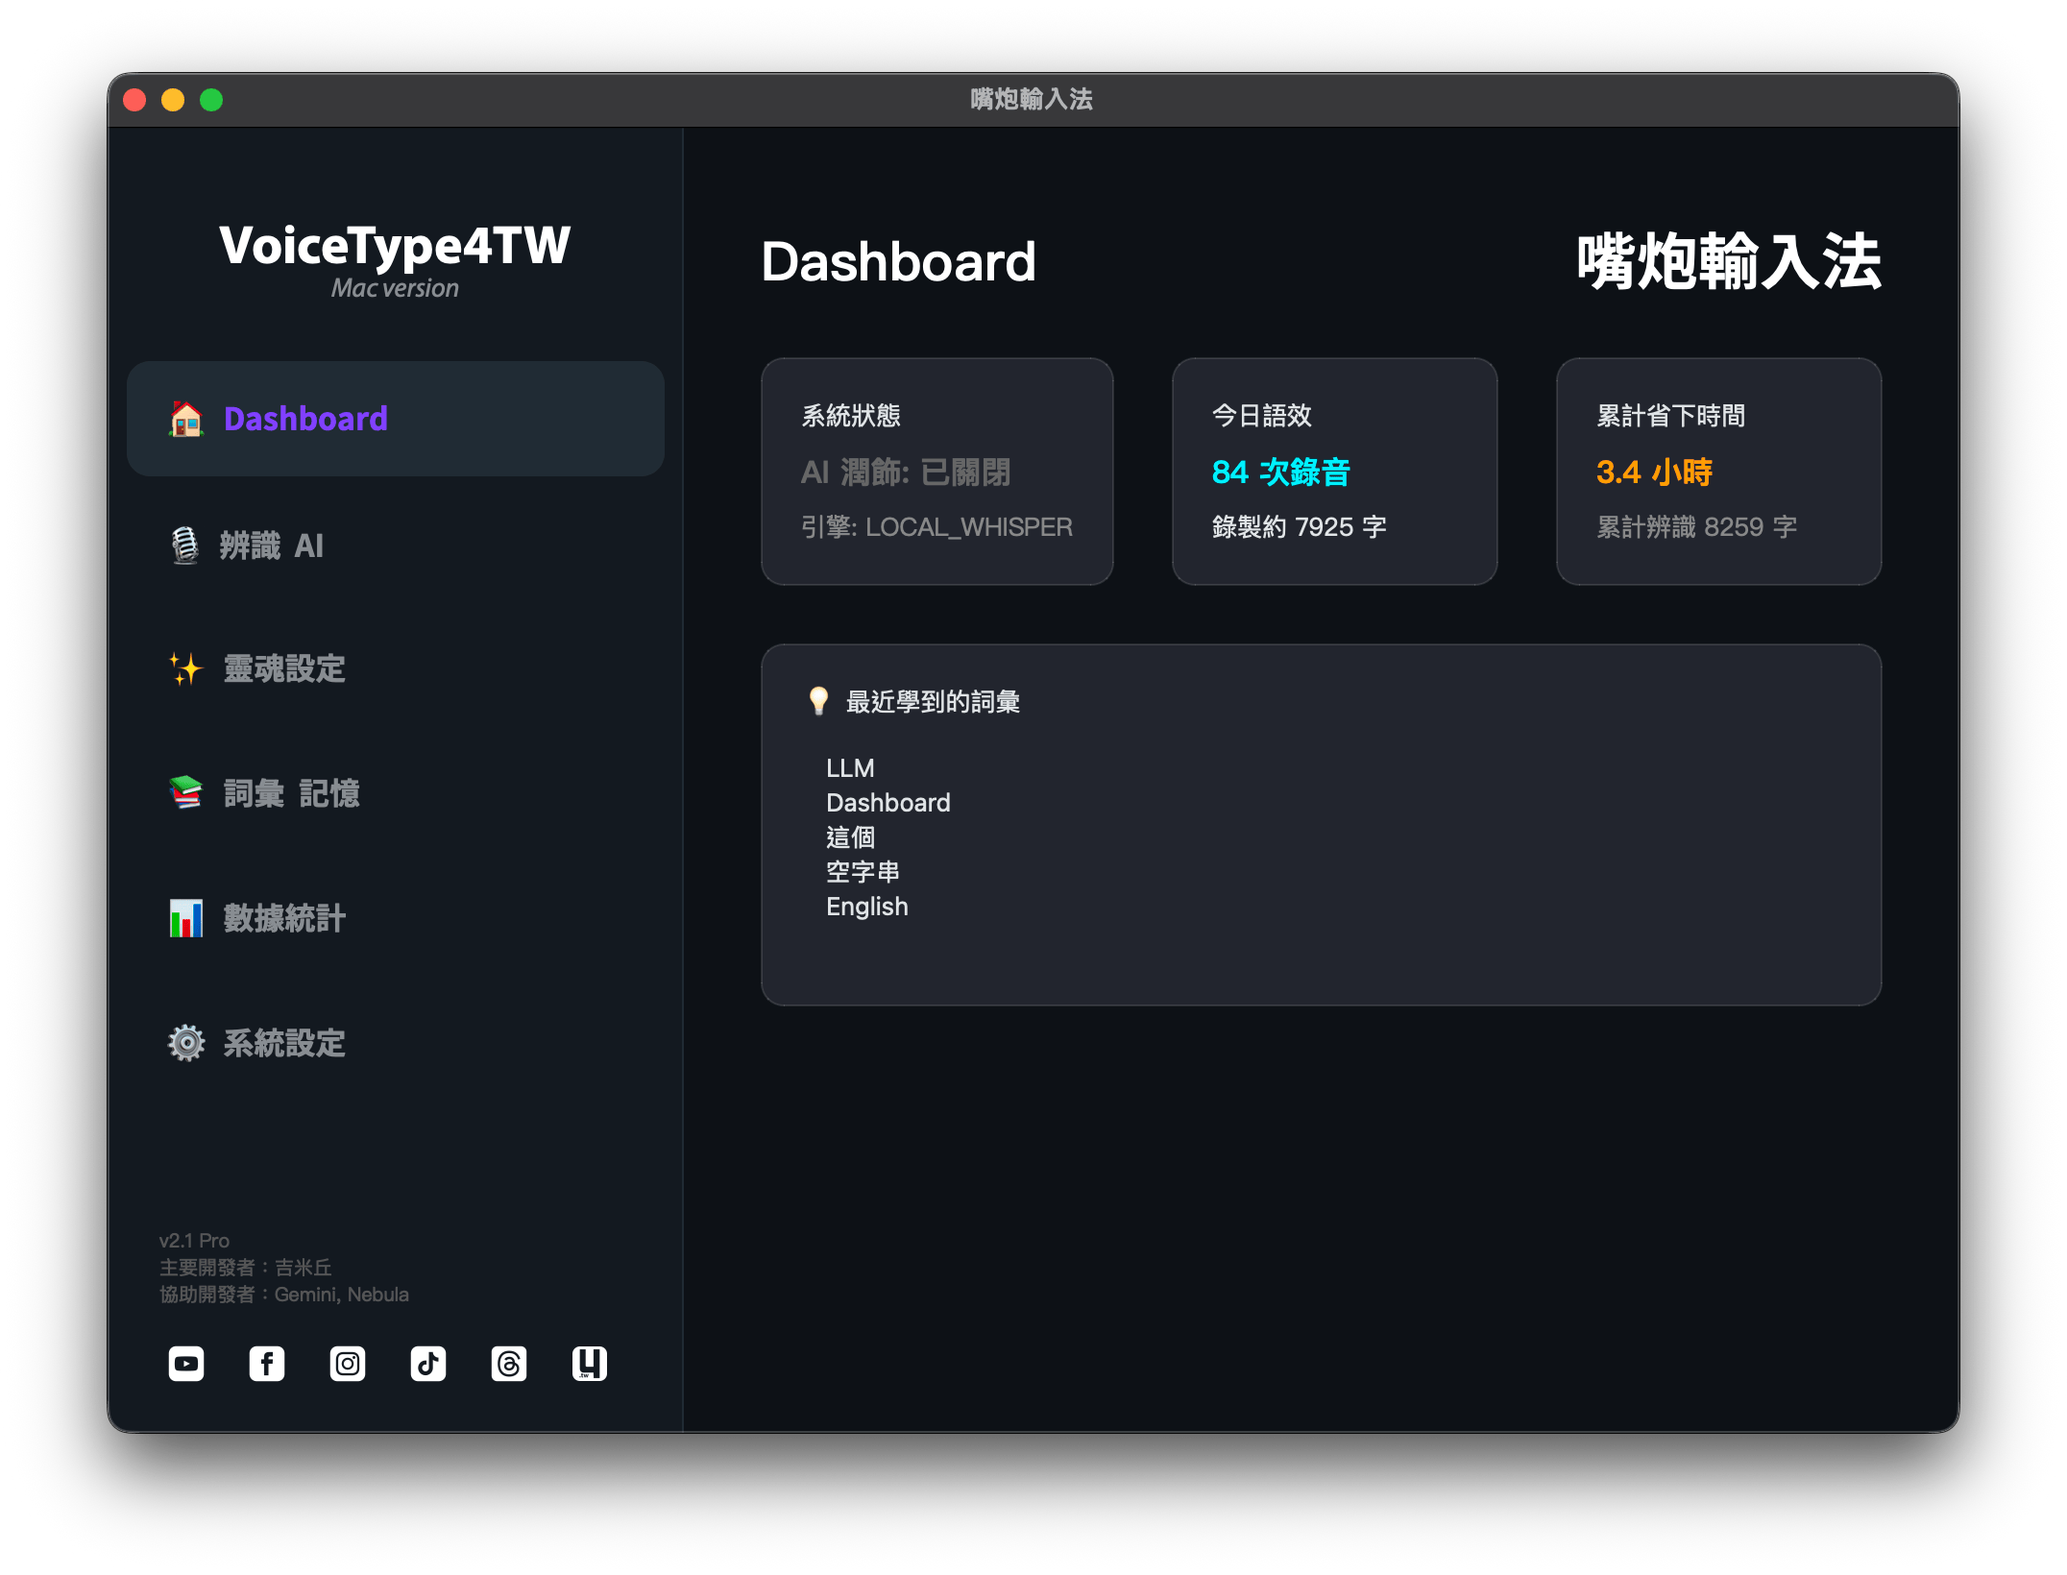
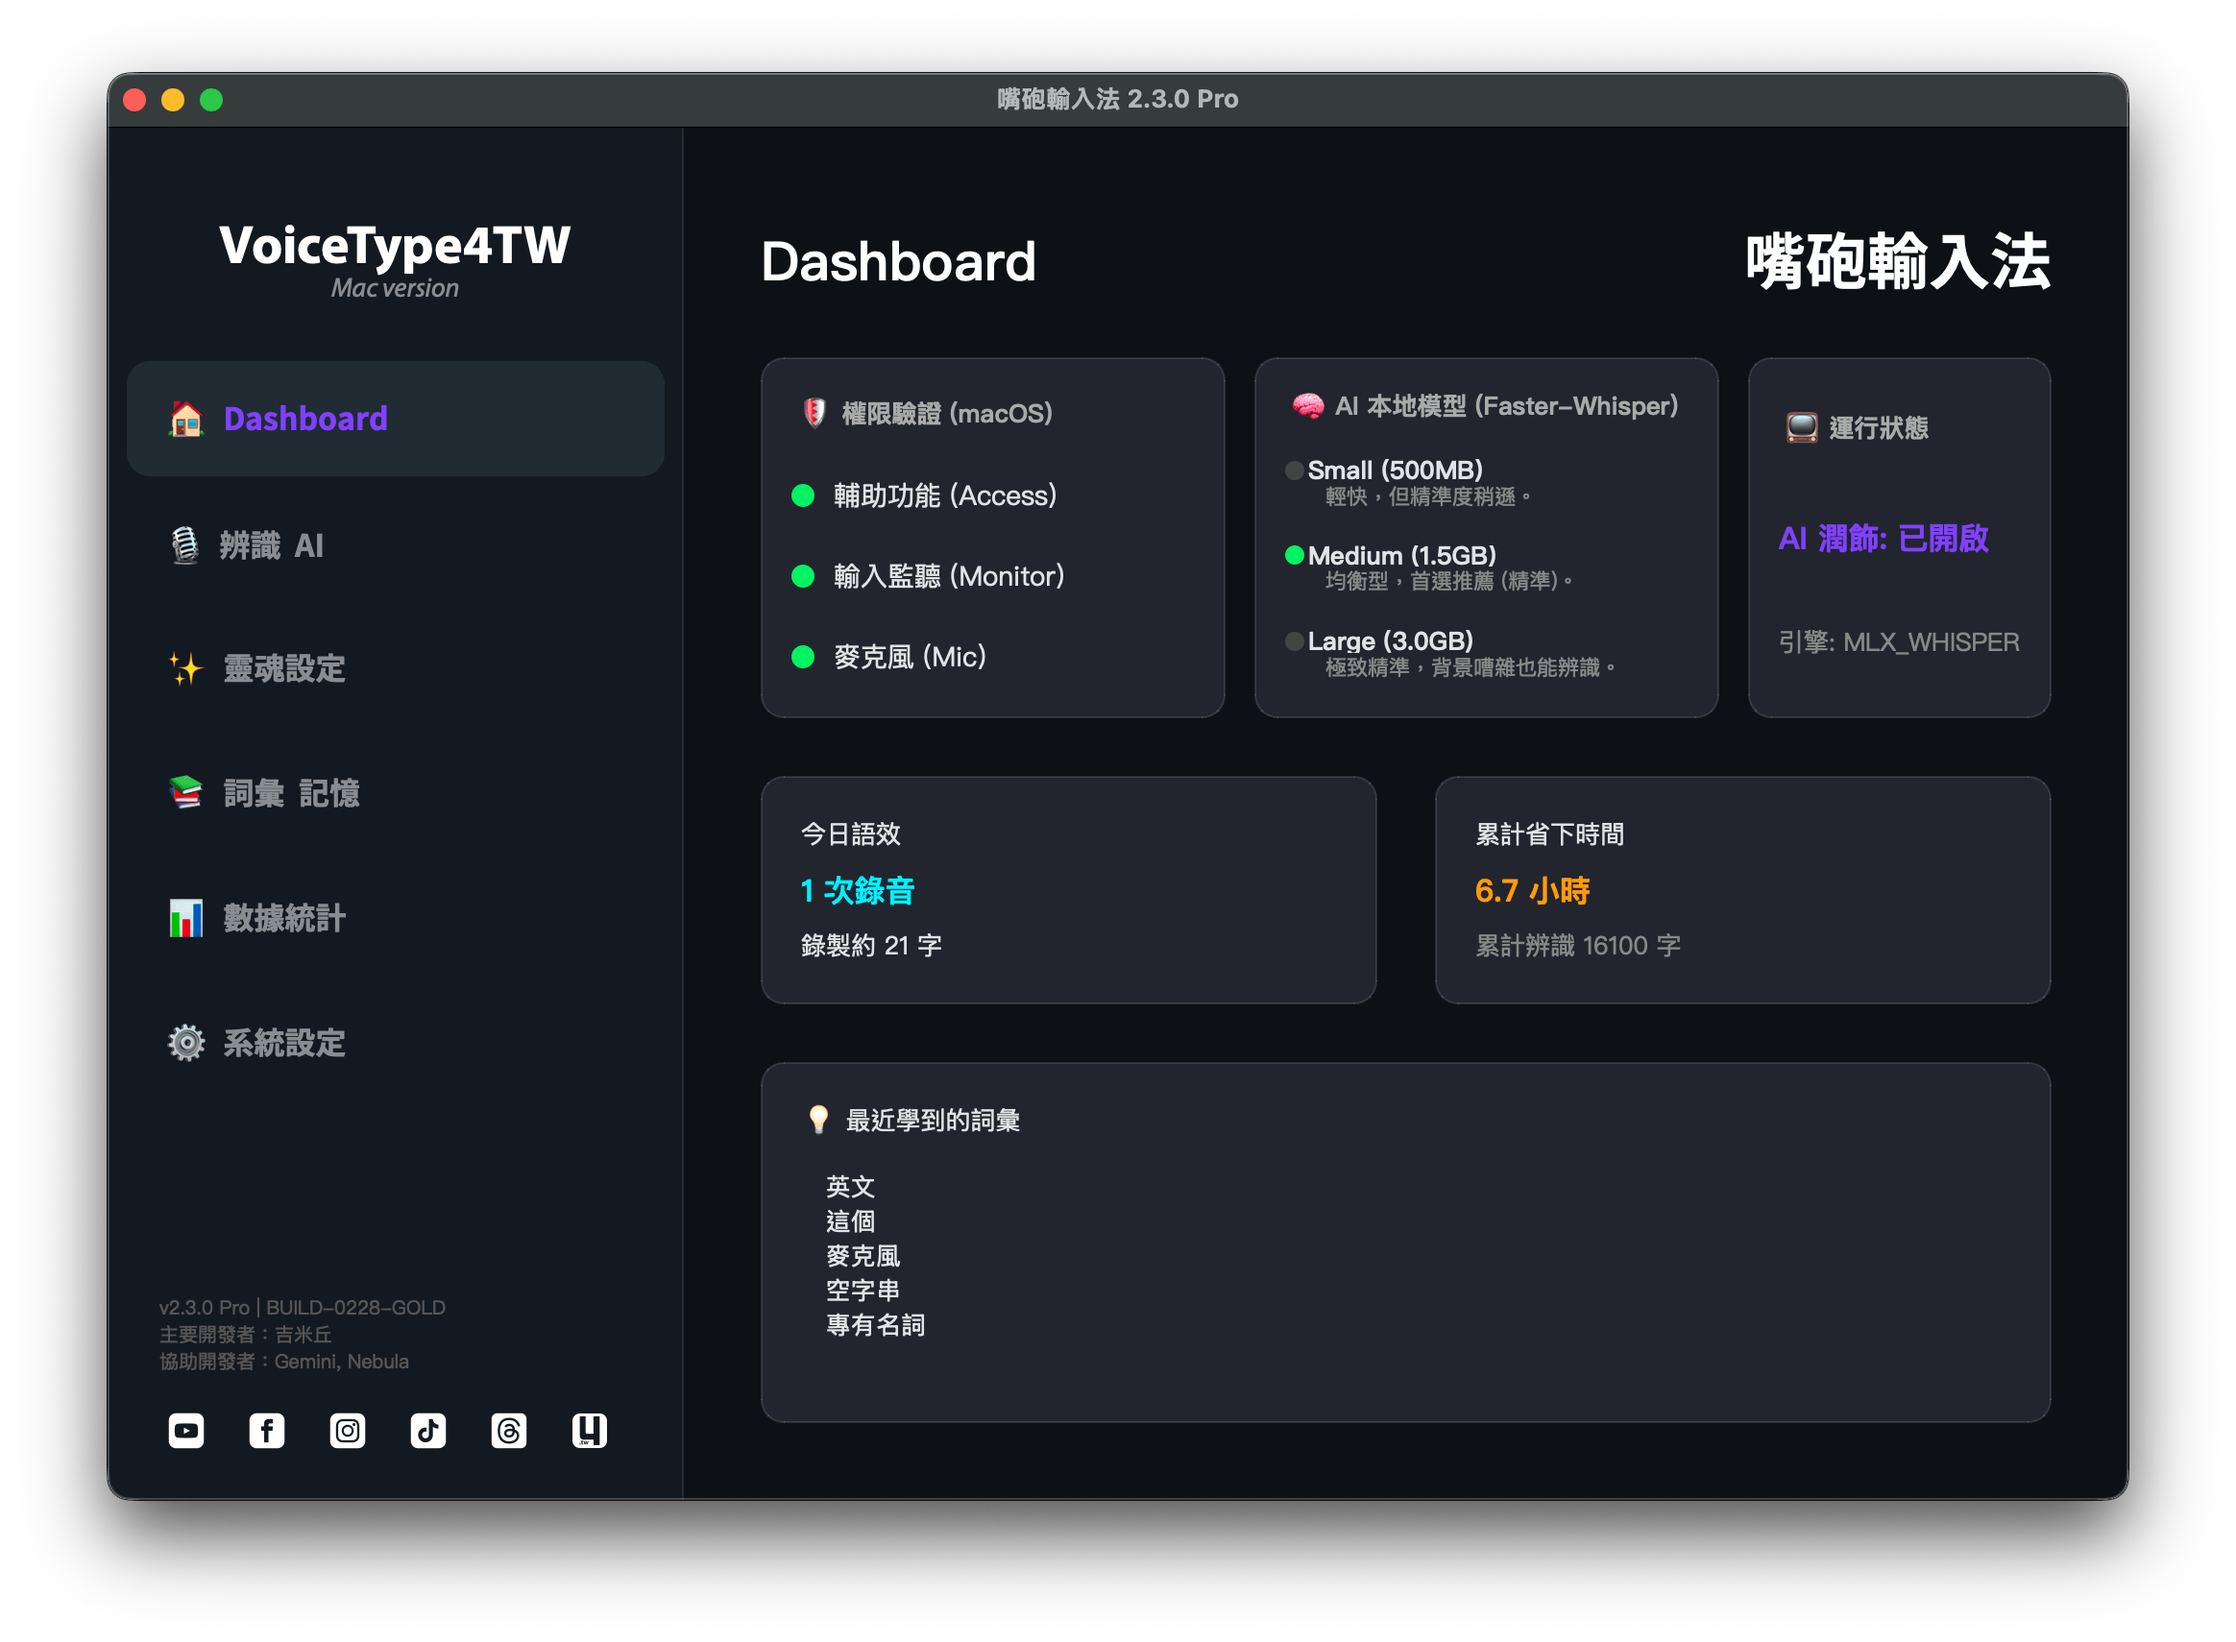
docs: update README assets

diff --git a/setup.py b/setup.py
@@ -33,8 +33,8 @@ OPTIONS = {
         'NSSupportsAutomaticGraphicsSwitching': True,
         'NSHighResolutionCapable': True,
     },
-    'packages': ['rumps', 'PyQt6', 'faster_whisper', 'pynput', 'pyperclip', 'sounddevice', '_sounddevice_data', 'httpx', 'certifi', 'objc', 'Quartz'],
-    'includes': ['numpy'],
+    'packages': ['rumps', 'PyQt6', 'faster_whisper', 'pynput', 'pyperclip', 'sounddevice', '_sounddevice_data', 'httpx', 'certifi', 'objc', 'Quartz', 'mlx_whisper'],
+    'includes': ['numpy', 'mlx'],
     'excludes': ['tkinter', 'unittest'],
 }
 

diff --git a/首次開啟必看_解除損毀警告.md b/首次開啟必看_解除損毀警告.md
@@ -1,0 +1,28 @@
+# 安裝與解除「已損毀」警告教學
+
+由於本應用程式尚未向 Apple 支付開發者憑證年費 (Apple Developer Program)，因此當您從網路下載並解壓縮本應用程式後，macOS 的 Gatekeeper 安全機制會自動將其標記為「已損毀」或「無法打開」。
+
+這是所有開源或免費 Mac 軟體的常見情況，請放心，這**並非病毒**。您只需要透過一行簡單的終端機指令，解除 macOS 的隔離保護 (Quarantine) 即可永久正常使用。
+
+### 🚀 簡單 3 步驟搞定：
+
+1. **移動到應用程式資料夾**
+   請將解壓縮出來的 `VoiceType4TW-Mac.app` 拖曳到您的「應用程式 (Applications)」資料夾。
+   *(這一步很重要，確保之後捷徑不會跑掉)*
+
+2. **打開終端機 (Terminal)**
+   您可以按下 `Command + 空白鍵` 叫出 Spotlight，輸入 `Terminal` 或 `終端機` 並按下 Return (Enter) 打開它。
+
+3. **複製貼上解除指令**
+   在終端機中，完整複製並貼上以下指令，然後按下 Return (Enter)：
+
+   ```bash
+   xattr -cr /Applications/VoiceType4TW-Mac.app
+   ```
+
+   *(如果您將 App 放在其他資料夾，請將指令後面的路徑替換成您實際放置的位置，或者先輸入 `xattr -cr ` 然後把 App 拖曳進終端機視窗，會自動輸入正確路徑)*
+
+---
+**🎉大功告成！**
+現在您可以從 Finder 或 Launchpad 中正常開啟 `VoiceType4TW-Mac.app`，享受光速般的語音辨識體驗了！
+不會再跳出煩人的警告視窗。
